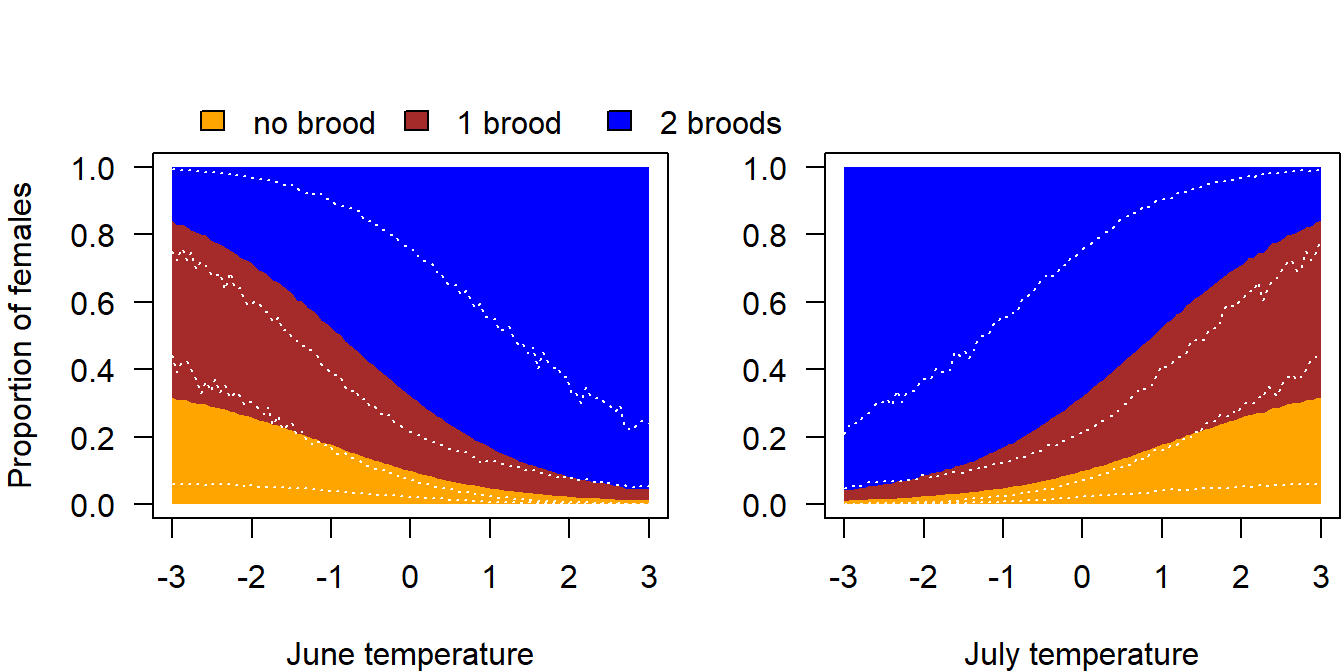
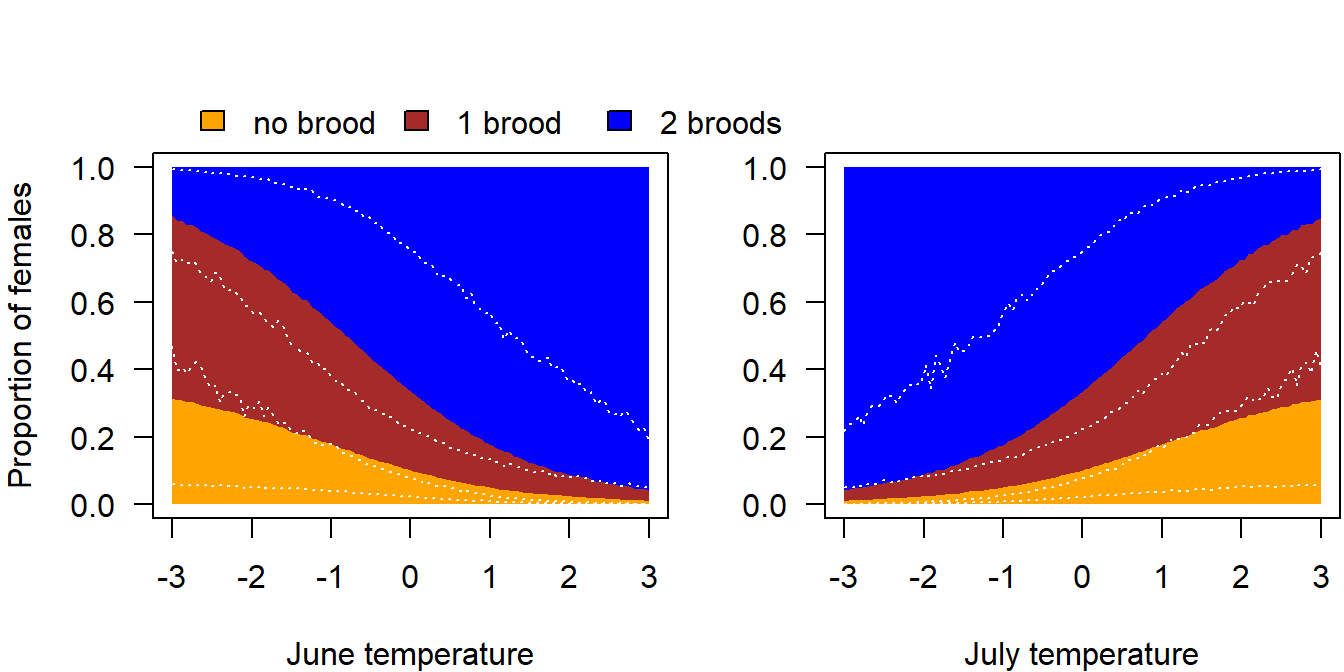
code hided

diff --git a/docs/data.html b/docs/data.html
@@ -154,10 +154,7 @@ div.csl-indent {
       <nav role="navigation">
 
 <ul class="summary">
-<li class="chapter" data-level="" data-path="index.html"><a href="index.html"><i class="fa fa-check"></i>Preface</a>
-<ul>
-<li class="chapter" data-level="" data-path="index.html"><a href="index.html#acknowledgments"><i class="fa fa-check"></i>Acknowledgments</a></li>
-</ul></li>
+<li class="chapter" data-level="" data-path="index.html"><a href="index.html"><i class="fa fa-check"></i>Acknowledgments</a></li>
 <li class="chapter" data-level="1" data-path="introduction.html"><a href="introduction.html"><i class="fa fa-check"></i><b>1</b> Introduction</a>
 <ul>
 <li class="chapter" data-level="1.1" data-path="introduction.html"><a href="introduction.html#background"><i class="fa fa-check"></i><b>1.1</b> Background</a></li>
@@ -275,8 +272,8 @@ Figure 2.2: Reported proportion of second broods in different studies (point) wi
 <span id="cb8-3"><a href="data.html#cb8-3" tabindex="-1"></a>p0brood.se <span class="ot">&lt;-</span> <span class="fl">0.05</span> <span class="co"># SE of proportion of non-breeding females</span></span>
 <span id="cb8-4"><a href="data.html#cb8-4" tabindex="-1"></a>nsim <span class="ot">&lt;-</span> <span class="dv">1000</span></span>
 <span id="cb8-5"><a href="data.html#cb8-5" tabindex="-1"></a>p0brood.r <span class="ot">&lt;-</span> <span class="fu">rbeta</span>(nsim, <span class="fu">shapeparameter</span>(p0brood, <span class="at">se=</span>p0brood.se)<span class="sc">$</span>a, <span class="fu">shapeparameter</span>(p0brood, <span class="at">se=</span>p0brood.se)<span class="sc">$</span>b)</span></code></pre></div>
-<p>The resulting average proportion of second broods has a high uncertainty. Its 95% uncertainty interval ranges from 0.21 to 0.97, and the mean is 0.75 (Figure <a href="data.html#fig:metanrbrood">2.2</a>).</p>
-<p>For the population model, we use a proportion of non-breeding females of 0.1 in average and an uncertainty interval of 0.02 to 0.21 to account for the fact that we know little about this demographic parameter.</p>
+<p>The resulting average proportion of second broods has a high uncertainty. Its 95% uncertainty interval ranges from 0.19 to 0.97, and the mean is 0.75 (Figure <a href="data.html#fig:metanrbrood">2.2</a>).</p>
+<p>For the population model, we use a proportion of non-breeding females of 0.1 in average and an uncertainty interval of 0.02 to 0.22 to account for the fact that we know little about this demographic parameter.</p>
 <p>We derive the two intercepts of a multinomial model from the proportion of non-breeders and the proportion of females with second broods among the breeding females using Monte Carlo simulations to propagate the uncertainty. The proportions defined by the intercept are used for average temperature values.</p>
 <div class="sourceCode" id="cb9"><pre class="sourceCode r"><code class="sourceCode r"><span id="cb9-1"><a href="data.html#cb9-1" tabindex="-1"></a><span class="co"># derivation of formula to calculate the intercepts</span></span>
 <span id="cb9-2"><a href="data.html#cb9-2" tabindex="-1"></a><span class="co"># p0brood = exp(x1)/(exp(x1) + exp(x2) + 1)</span></span>

diff --git a/docs/index.html b/docs/index.html
@@ -154,10 +154,7 @@ div.csl-indent {
       <nav role="navigation">
 
 <ul class="summary">
-<li class="chapter" data-level="" data-path="index.html"><a href="index.html"><i class="fa fa-check"></i>Preface</a>
-<ul>
-<li class="chapter" data-level="" data-path="index.html"><a href="index.html#acknowledgments"><i class="fa fa-check"></i>Acknowledgments</a></li>
-</ul></li>
+<li class="chapter" data-level="" data-path="index.html"><a href="index.html"><i class="fa fa-check"></i>Acknowledgments</a></li>
 <li class="chapter" data-level="1" data-path="introduction.html"><a href="introduction.html"><i class="fa fa-check"></i><b>1</b> Introduction</a>
 <ul>
 <li class="chapter" data-level="1.1" data-path="introduction.html"><a href="introduction.html#background"><i class="fa fa-check"></i><b>1.1</b> Background</a></li>
@@ -201,14 +198,11 @@ div.csl-indent {
 <p class="author"><em>Fränzi Korner-Nievergelt</em></p>
 <p class="date"><em>2023-10-29</em></p>
 </div>
-<div id="preface" class="section level1 unnumbered hasAnchor">
-<h1>Preface<a href="index.html#preface" class="anchor-section" aria-label="Anchor link to header"></a></h1>
+<div id="acknowledgments" class="section level1 unnumbered hasAnchor">
+<h1>Acknowledgments<a href="index.html#acknowledgments" class="anchor-section" aria-label="Anchor link to header"></a></h1>
 <p><img src="figures/sf.jpg" width="3318" style="display: block; margin: auto;" /></p>
-<div id="acknowledgments" class="section level2 unnumbered hasAnchor">
-<h2>Acknowledgments<a href="index.html#acknowledgments" class="anchor-section" aria-label="Anchor link to header"></a></h2>
 <p>The data, code and analyses presented here has been collected and created, respectively, in collaboration with Arnaud Barras, Matthew De Couto, Sebastian Dirren, Fabian Fopp, Marilene Fuhrmann, Anne-Cathérine Gutzwiller, Sabine Hille, Simon Hohl, Charel Klein, Carole Niffenegger, Elisenda Peris Morente, Claire Pernollet, Jaime Resano Mayor, Christian Schano, Alexander Schneider, Alessia Uboldi and Daniela Villaume.</p>
 
-</div>
 </div>
             </section>
 

diff --git a/docs/404.html b/docs/404.html
@@ -154,10 +154,7 @@ div.csl-indent {
       <nav role="navigation">
 
 <ul class="summary">
-<li class="chapter" data-level="" data-path="index.html"><a href="index.html"><i class="fa fa-check"></i>Preface</a>
-<ul>
-<li class="chapter" data-level="" data-path="index.html"><a href="index.html#acknowledgments"><i class="fa fa-check"></i>Acknowledgments</a></li>
-</ul></li>
+<li class="chapter" data-level="" data-path="index.html"><a href="index.html"><i class="fa fa-check"></i>Acknowledgments</a></li>
 <li class="chapter" data-level="1" data-path="introduction.html"><a href="introduction.html"><i class="fa fa-check"></i><b>1</b> Introduction</a>
 <ul>
 <li class="chapter" data-level="1.1" data-path="introduction.html"><a href="introduction.html#background"><i class="fa fa-check"></i><b>1.1</b> Background</a></li>

diff --git a/docs/introduction.html b/docs/introduction.html
@@ -154,10 +154,7 @@ div.csl-indent {
       <nav role="navigation">
 
 <ul class="summary">
-<li class="chapter" data-level="" data-path="index.html"><a href="index.html"><i class="fa fa-check"></i>Preface</a>
-<ul>
-<li class="chapter" data-level="" data-path="index.html"><a href="index.html#acknowledgments"><i class="fa fa-check"></i>Acknowledgments</a></li>
-</ul></li>
+<li class="chapter" data-level="" data-path="index.html"><a href="index.html"><i class="fa fa-check"></i>Acknowledgments</a></li>
 <li class="chapter" data-level="1" data-path="introduction.html"><a href="introduction.html"><i class="fa fa-check"></i><b>1</b> Introduction</a>
 <ul>
 <li class="chapter" data-level="1.1" data-path="introduction.html"><a href="introduction.html#background"><i class="fa fa-check"></i><b>1.1</b> Background</a></li>

diff --git a/docs/population-model.html b/docs/population-model.html
@@ -154,10 +154,7 @@ div.csl-indent {
       <nav role="navigation">
 
 <ul class="summary">
-<li class="chapter" data-level="" data-path="index.html"><a href="index.html"><i class="fa fa-check"></i>Preface</a>
-<ul>
-<li class="chapter" data-level="" data-path="index.html"><a href="index.html#acknowledgments"><i class="fa fa-check"></i>Acknowledgments</a></li>
-</ul></li>
+<li class="chapter" data-level="" data-path="index.html"><a href="index.html"><i class="fa fa-check"></i>Acknowledgments</a></li>
 <li class="chapter" data-level="1" data-path="introduction.html"><a href="introduction.html"><i class="fa fa-check"></i><b>1</b> Introduction</a>
 <ul>
 <li class="chapter" data-level="1.1" data-path="introduction.html"><a href="introduction.html#background"><i class="fa fa-check"></i><b>1.1</b> Background</a></li>

diff --git a/docs/references.html b/docs/references.html
@@ -154,10 +154,7 @@ div.csl-indent {
       <nav role="navigation">
 
 <ul class="summary">
-<li class="chapter" data-level="" data-path="index.html"><a href="index.html"><i class="fa fa-check"></i>Preface</a>
-<ul>
-<li class="chapter" data-level="" data-path="index.html"><a href="index.html#acknowledgments"><i class="fa fa-check"></i>Acknowledgments</a></li>
-</ul></li>
+<li class="chapter" data-level="" data-path="index.html"><a href="index.html"><i class="fa fa-check"></i>Acknowledgments</a></li>
 <li class="chapter" data-level="1" data-path="introduction.html"><a href="introduction.html"><i class="fa fa-check"></i><b>1</b> Introduction</a>
 <ul>
 <li class="chapter" data-level="1.1" data-path="introduction.html"><a href="introduction.html#background"><i class="fa fa-check"></i><b>1.1</b> Background</a></li>

diff --git a/docs/predictive_model.md b/docs/predictive_model.md
@@ -144,10 +144,10 @@ nsim <- 1000
 p0brood.r <- rbeta(nsim, shapeparameter(p0brood, se=p0brood.se)$a, shapeparameter(p0brood, se=p0brood.se)$b)
 ```
 
-The resulting average proportion of second broods has a high uncertainty. Its 95% uncertainty interval ranges from 0.21 to  0.97, and the mean is 0.75 (Figure \@ref(fig:metanrbrood)).
+The resulting average proportion of second broods has a high uncertainty. Its 95% uncertainty interval ranges from 0.19 to  0.97, and the mean is 0.75 (Figure \@ref(fig:metanrbrood)).
 
 
-For the population model, we use a proportion of non-breeding females of 0.1 in average and an uncertainty interval of 0.02 to 0.21 to account for the fact that we know little about this demographic parameter. 
+For the population model, we use a proportion of non-breeding females of 0.1 in average and an uncertainty interval of 0.02 to 0.22 to account for the fact that we know little about this demographic parameter. 
 
 We derive the two intercepts of a multinomial model from the proportion of non-breeders and the proportion of females with second broods among the breeding females using Monte Carlo simulations to propagate the uncertainty. The proportions defined by the intercept are used for average temperature values. 
 

diff --git a/docs/index.md b/docs/index.md
@@ -9,15 +9,14 @@ link-citations: yes
 github-repo: fraenzi/popmod_snowfinch
 cover-image: figures/sf.jpg
 description: "We here present what we know about population dynamics of Snowfinches."
+code_folding: hide
 ---
 
-# Preface {-}
+# Acknowledgments {-}
+
 
 <img src="figures/sf.jpg" width="3318" style="display: block; margin: auto;" />
 
-
-
-## Acknowledgments {-}
 
 The data, code and analyses presented here has been collected and created, respectively, in collaboration with Arnaud Barras, Matthew De Couto, Sebastian Dirren, Fabian Fopp, Marilene Fuhrmann, Anne-Cathérine Gutzwiller, Sabine Hille, Simon Hohl, Charel Klein, Carole Niffenegger, Elisenda Peris Morente, Claire Pernollet, Jaime Resano Mayor, Christian Schano, Alexander Schneider, Alessia Uboldi and Daniela Villaume. 
 
